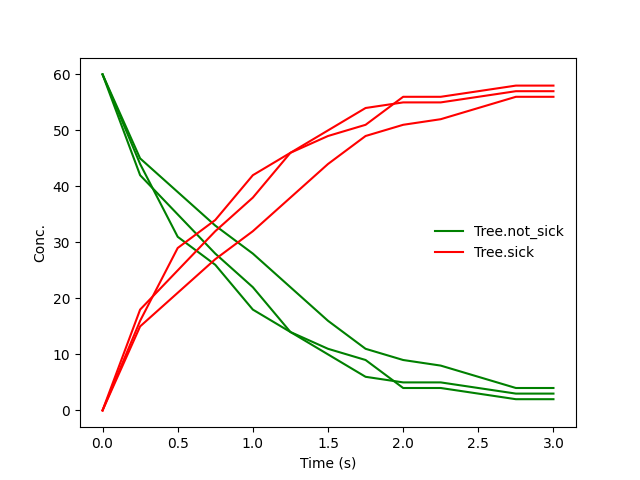
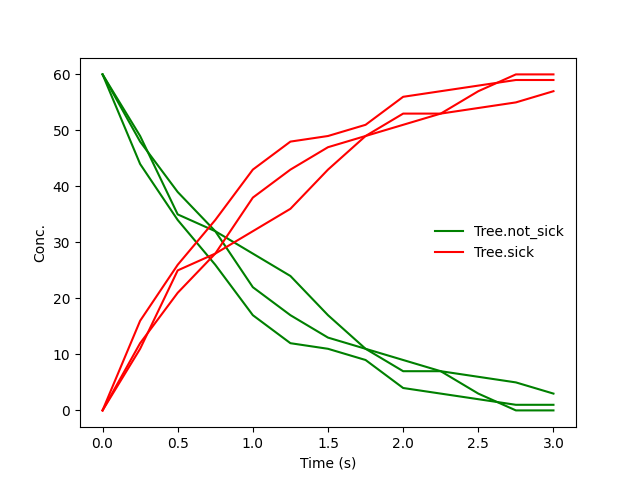
Added new rate_type and plot_type parameters for choosing how the model is written and plotted. Added more simulation methods from basiCO to be executed

diff --git a/mobspy/parameter_scripts/parameter_reader.py b/mobspy/parameter_scripts/parameter_reader.py
@@ -11,6 +11,7 @@ import mobspy.simulation_logging.log_scripts as simlog
 from pint import Quantity
 import mobspy.modules.unit_handler as uh
 import inspect
+from mobspy.modules.meta_class import u
 
 
 def read_json(json_file_name):
@@ -33,7 +34,7 @@ def read_json(json_file_name):
     return json_data
 
 
-def __name_output_file(params):
+def name_output_file(params):
     """
         Gives a name to the output file - just date time in case the user has not specified one
 
@@ -45,7 +46,7 @@ def __name_output_file(params):
     params["absolute_output_file"] = params["output_dir"] + file_name
 
 
-def __check_stochastic_repetitions_seeds(params):
+def check_stochastic_repetitions_seeds(params):
     """
         The list of seeds must be equal to the number of repetitions specified
 
@@ -59,7 +60,7 @@ def __check_stochastic_repetitions_seeds(params):
             simlog.error('Parameter seeds must be a list')
 
 
-def __convert_parameters_for_COPASI(params):
+def convert_parameters_for_COPASI(params):
     """
         Converts parameters units to MobsPy standard units (basiCO needs seconds for simulation duration)
 
@@ -76,14 +77,19 @@ def __convert_parameters_for_COPASI(params):
                 continue
 
 
-def __convert_unit_parameters(params):
+def convert_unit_parameters(params):
     units = ['unit_x', 'unit_y']
-    for u in units:
-        if u in params and params[u] is not None:
-            if isinstance(params[u], Quantity):
-                params[u] = str(params[u].units)
+
+    for un in units:
+        if un in params and params[un] is not None:
+            if isinstance(params[un], Quantity):
+                params[un] = params[un]
             else:
-                params[u] = str(params[u])
+                try:
+                    params[un] = u.unit_registry_object(params[un])
+                except Exception as e:
+                    print(e)
+                    simlog.error(f"The unit in parameter {un} did not parse")
 
 
 def convert_time_parameters_after_compilation(value):
@@ -94,6 +100,7 @@ def convert_time_parameters_after_compilation(value):
         if str(value.dimensionality) == '[time]':
             value = value.convert('second').magnitude
     return value
+
 
 def convert_volume_after_compilation(dimension, parameters_for_sbml, value):
     if isinstance(value, Quantity):
@@ -108,19 +115,65 @@ def convert_volume_after_compilation(dimension, parameters_for_sbml, value):
     return value
 
 
+"""
+all basico methods listed here for future reference - if more need to be added
+methods = {
+        'deterministic': COPASI.CTaskEnum.Method_deterministic,
+        'lsoda': COPASI.CTaskEnum.Method_deterministic,
+        'hybrid': COPASI.CTaskEnum.Method_hybrid,
+        'hybridode45': COPASI.CTaskEnum.Method_hybridODE45,
+        'hybridlsoda': COPASI.CTaskEnum.Method_hybridLSODA,
+        'adaptivesa': COPASI.CTaskEnum.Method_adaptiveSA,
+        'tauleap': COPASI.CTaskEnum.Method_tauLeap,
+        'stochastic': COPASI.CTaskEnum.Method_stochastic,
+        'directmethod': COPASI.CTaskEnum.Method_directMethod,
+        'radau5': COPASI.CTaskEnum.Method_RADAU5,
+        'sde': COPASI.CTaskEnum.Method_stochasticRunkeKuttaRI5,
+    }
+"""
+
+
+def check_method_parameter(params):
+    # Method takes preference from the user assignment, but the code was made for 'simulation_method
+    if params['method'] is not None:
+        params['simulation_method'] = params['method']
+    params['simulation_method'] = params['simulation_method'].lower()
+
+    valid_basiCO_deterministic = ['deterministic', 'lsoda']
+    valid_basiCO_stochastic = ['hybrid', 'hybridode45', 'hybridlsoda', 'tauleap', 'stochastic', 'directmethod', 'sde']
+
+    if params['simulation_method'] not in valid_basiCO_deterministic + valid_basiCO_stochastic:
+        simlog.error(f'The simulation method {params["simulation_method"]} is not compatible with MobsPy')
+
+    if params['simulation_method'] in valid_basiCO_deterministic:
+        if params['rate_type'] is None:
+            params['rate_type'] = 'deterministic'
+
+        if params['plot_type'] is None:
+            params['plot_type'] = 'deterministic'
+    else:
+        if params['rate_type'] is None:
+            params['rate_type'] = 'stochastic'
+
+        if params['plot_type'] is None and params['repetitions'] == 1:
+            params['plot_type'] = 'deterministic'
+        else:
+            params['plot_type'] = 'stochastic'
+
+
 def parameter_process(params):
-    __convert_unit_parameters(params)
-    __name_output_file(params)
-    __check_stochastic_repetitions_seeds(params)
-    __convert_parameters_for_COPASI(params)
+    convert_unit_parameters(params)
+    name_output_file(params)
+    check_stochastic_repetitions_seeds(params)
+    convert_parameters_for_COPASI(params)
+    check_method_parameter(params)
 
 
 # I felt like inspect could be to invasive, maybe it would have been better to inspect the function signature
 def manually_process_each_parameter(simulation_object, duration, volume, repetitions, level, simulation_method,
                                     start_time, r_tol, a_tol, seeds, step_size,
                                     jobs, unit_x, unit_y, output_concentration, output_event,
-                                    output_file, save_data, plot_data):
-
+                                    output_file, save_data, plot_data, rate_type, plot_type):
     if duration is not None:
         simulation_object.duration = duration
 
@@ -175,6 +228,10 @@ def manually_process_each_parameter(simulation_object, duration, volume, repetit
     if plot_data is not None:
         simulation_object.plot_data = plot_data
 
+    if rate_type is not None:
+        simulation_object.rate_type = rate_type
 
+    if plot_type is not None:
+        simulation_object.plot_type = plot_type
 
 

diff --git a/mobspy/simulation.py b/mobspy/simulation.py
@@ -225,7 +225,7 @@ class Simulation:
                              species_counts=self._species_counts,
                              orthogonal_vector_structure=self.orthogonal_vector_structure,
                              volume=self.parameters['volume'],
-                             type_of_model=self.parameters["simulation_method"],
+                             type_of_model=self.parameters["rate_type"],
                              verbose=verbose,
                              event_dictionary=self.total_packed_events,
                              continuous_sim=self.parameters['_continuous_simulation'],
@@ -269,6 +269,7 @@ class Simulation:
             self._parameter_list_of_dic = parameter_list_of_dic
 
     def run(self, duration=None, volume=None, repetitions=None, level=None, simulation_method=None,
+            rate_type = None, plot_type = None,
             start_time=None, r_tol=None, a_tol=None, seeds=None, step_size=None,
             jobs=None, unit_x=None, unit_y=None, output_concentration=None, output_event=None,
             output_file=None, save_data=None, plot_data=None) -> None:
@@ -282,6 +283,8 @@ class Simulation:
             :param repetitions: (int) number of times to reapeat a simulation
             :param level: (int) 0 - only error messages, 3 - errors, warnings, compilation info
             :param simulation_method: (str) stochastic, deterministic, direct_method - simulation method
+            :param rate_type: (str) stochastic or deterministic - mass action kinetics or probability of encounter
+            :param plot_type: (str) stochastic-style MobsPy plot or deterministic-style MobsPy plot
             :param start_time: (float) the simulation will only display data after the start time
             :param r_tol: (float) relative tolerance - basiCO simulation parameter
             :param a_tol: (float) absolute tolerance  - basiCO simulation parameter
@@ -309,7 +312,7 @@ class Simulation:
         pr.manually_process_each_parameter(self, duration, volume, repetitions, level, simulation_method,
                                            start_time, r_tol, a_tol, seeds, step_size,
                                            jobs, unit_x, unit_y, output_concentration, output_event,
-                                           output_file, save_data, plot_data)
+                                           output_file, save_data, plot_data, rate_type, plot_type)
 
         self._assemble_multi_simulation_structure()
 
@@ -701,7 +704,7 @@ class SimulationComposition:
     def __setattr__(self, name, value):
         white_list = ['list_of_simulations', 'results', 'base_sim', 'fres']
         multi_cast_parameters = ['simulation_method', 'method', 'volume', 'duration']
-        broad_cast_parameters = ['level']
+        broad_cast_parameters = ['level', 'rate_type', 'plot_type']
 
         if name in multi_cast_parameters:
 
@@ -756,7 +759,7 @@ class SimulationComposition:
     def run(self, duration=None, volume=None, repetitions=None, level=None, simulation_method=None,
             start_time=None, r_tol=None, a_tol=None, seeds=None, step_size=None,
             jobs=None, unit_x=None, unit_y=None, output_concentration=None, output_event=None,
-            output_file=None, save_data=None, plot_data=None):
+            output_file=None, save_data=None, plot_data=None, rate_type=None, plot_type=None):
         """
             runs a concatenated simulation with multiple simulation objects summed
             Some inputs are different here, duration and volume must receive any iterable with the volume for
@@ -780,6 +783,8 @@ class SimulationComposition:
             :param output_file: (str) name of the file
             :param save_data: (bool) save data or not
             :param plot_data: (bool) plot data or not
+            :param rate_type: (str) stochastic or deterministic rate expression - mass action kinetic or prob. based
+            :param plot_type: (str) stochastic or deterministic - style of MobsPy plot
         """
         if level is not None:
             self.level = level
@@ -790,7 +795,7 @@ class SimulationComposition:
         pr.manually_process_each_parameter(self, duration, volume, repetitions, level, simulation_method,
                                            start_time, r_tol, a_tol, seeds, step_size,
                                            jobs, unit_x, unit_y, output_concentration, output_event,
-                                           output_file, save_data, plot_data)
+                                           output_file, save_data, plot_data, rate_type, plot_type)
 
         multi_parameter_dictionary = {}
 
@@ -846,3 +851,4 @@ class SimulationComposition:
 
 if __name__ == '__main__':
     pass
+

diff --git a/mobspy/modules/reaction_construction_nb.py b/mobspy/modules/reaction_construction_nb.py
@@ -301,7 +301,8 @@ def create_all_reactions(reactions, meta_species_in_model,
     with crs.Unit_Context_Setter():
         for reaction in reactions:
 
-            base_species_order, reactant_species_combination_list = get_involved_species(reaction, meta_species_in_model)
+            base_species_order, reactant_species_combination_list = get_involved_species(reaction,
+                                                                                         meta_species_in_model)
 
             for combination_of_reactant_species in iterator_for_combinations(reactant_species_combination_list):
 
@@ -323,7 +324,8 @@ def create_all_reactions(reactions, meta_species_in_model,
                                                                                          meta_species_in_model,
                                                                                          ref_characteristics_to_object)
 
-                    for product_string_list in iterator_for_combinations(product_species_species_string_combination_list):
+                    for product_string_list in \
+                            iterator_for_combinations(product_species_species_string_combination_list):
 
                         reaction_rate_arguments = None
                         if callable(reaction.rate):
@@ -334,14 +336,15 @@ def create_all_reactions(reactions, meta_species_in_model,
                                             for reactant in reactant_string_list]
 
                         try:
-                            rate_string, parameters_in_reaction = fr.extract_reaction_rate(combination_of_reactant_species,
-                                                                                           reactant_strings
-                                                                                           , reaction.rate, type_of_model,
-                                                                                           dimension,
-                                                                                           reaction_rate_arguments,
-                                                                                           parameter_exist,
-                                                                                           parameters_in_reaction,
-                                                                                           skip_check)
+                            rate_string, parameters_in_reaction = \
+                                fr.extract_reaction_rate(combination_of_reactant_species,
+                                                         reactant_strings
+                                                         , reaction.rate, type_of_model,
+                                                         dimension,
+                                                         reaction_rate_arguments,
+                                                         parameter_exist,
+                                                         parameters_in_reaction,
+                                                         skip_check)
                         except TypeError as e:
                             simlog.error(f'On reaction {reaction} \n' + str(e))
 
@@ -352,7 +355,6 @@ def create_all_reactions(reactions, meta_species_in_model,
                             construct_single_reaction_for_sbml(reactant_strings,
                                                                product_string_list,
                                                                rate_string)
-
 
     return reactions_for_sbml, parameters_in_reaction
 

diff --git a/mobspy/modules/function_rate_code.py b/mobspy/modules/function_rate_code.py
@@ -133,10 +133,6 @@ def basic_kinetics_string(reactants, reaction_rate, type_of_model, is_count=Fals
     """
     counts = rc.count_string_dictionary(reactants)
 
-    if type_of_model.lower() not in ['stochastic', 'deterministic']:
-        simlog.error(f'The following method for simulation {type_of_model} is not supported.\n' +
-                     f'Only stochastic or deterministic')
-
     kinetics_string = ""
     for name, number in counts.items():
         if type_of_model.lower() == 'stochastic':

diff --git a/for_local_use.py b/for_local_use.py
@@ -1,18 +1,14 @@
 from mobspy import *
 
+
 if __name__ == '__main__':
 
-    def test_average_value():
-        E = BaseSpecies(1)
-        Zero >> E[12]
-        E >> Zero[25]
-
-        MySim = Simulation(E)
-        MySim.save_data = False
-        MySim.plot_data = False
-        MySim.level = -1
-        MySim.run()
-    test_average_value()
+    A = BaseSpecies()
+    A >> Zero [1]
+    A(100)
+    S = Simulation(A)
+    S.method = 'tauleap'
+    S.run()
 
 
 

diff --git a/mobspy/parameters/example_reader.py b/mobspy/parameters/example_reader.py
@@ -14,6 +14,7 @@ def get_example_parameters():
         "volume": 1,
         "repetitions": 3,
         "level": 0,
+        "rate_type": 'stochastic',
 
         "__comment_2": "basiCO parameters",
 
@@ -40,7 +41,8 @@ def get_example_parameters():
         "output_event": False,
         "output_file": None,
         "save_data": False,
-        "plot_data": True
+        "plot_data": True,
+        "plot_type": 'stochastic'
 
     }
     return example_parameters

diff --git a/mobspy/parameters/default_reader.py b/mobspy/parameters/default_reader.py
@@ -12,6 +12,7 @@ def get_default_parameters():
         "volume": 1,
         "repetitions": 1,
         "level": 3,
+        "rate_type": None,
 
         "__comment_2": "basiCO parameters",
 
@@ -37,6 +38,7 @@ def get_default_parameters():
         "output_concentration": True,
         "save_data": False,
         "plot_data": True,
+        "plot_type": None,
 
         "_continuous_simulation": False,
         "_end_condition": None,
